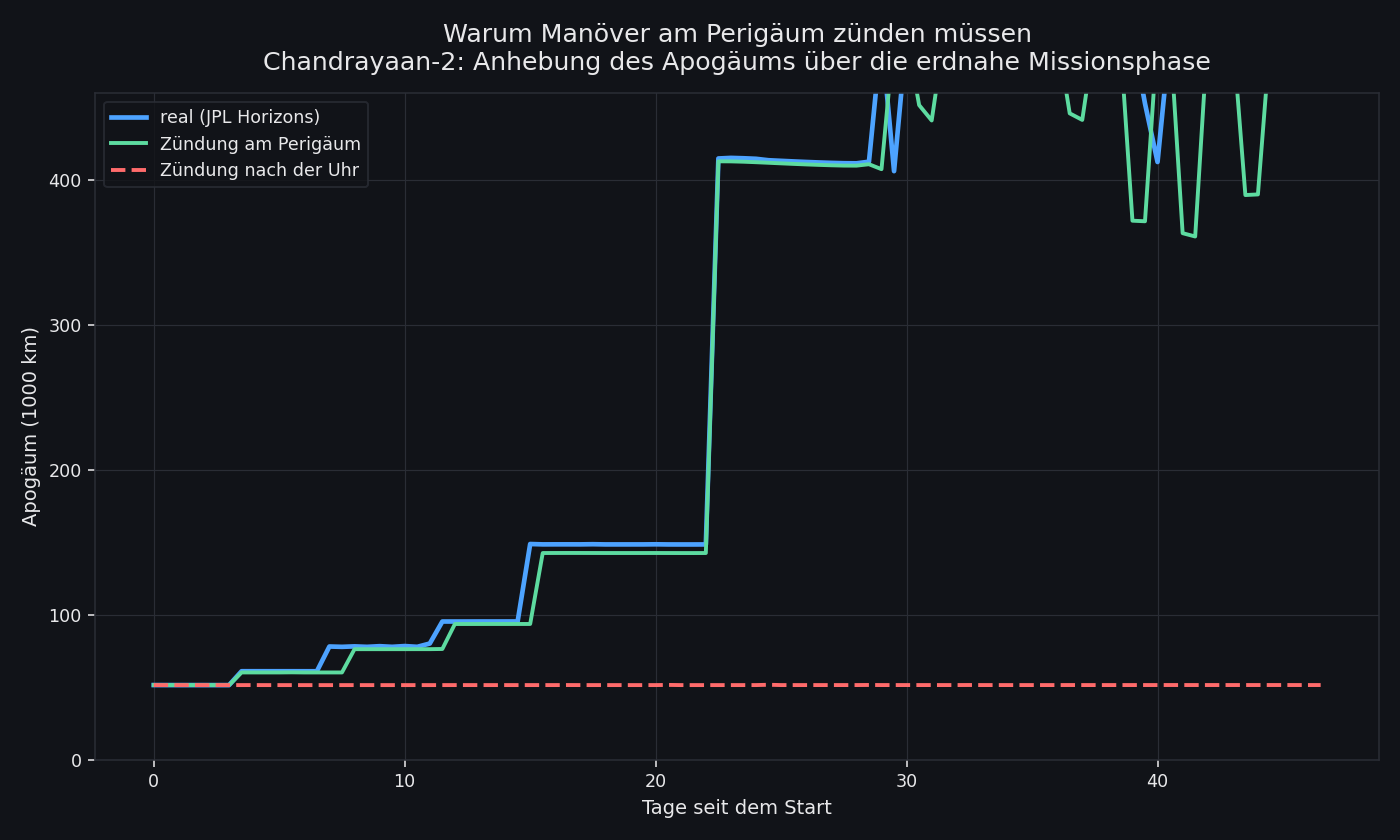
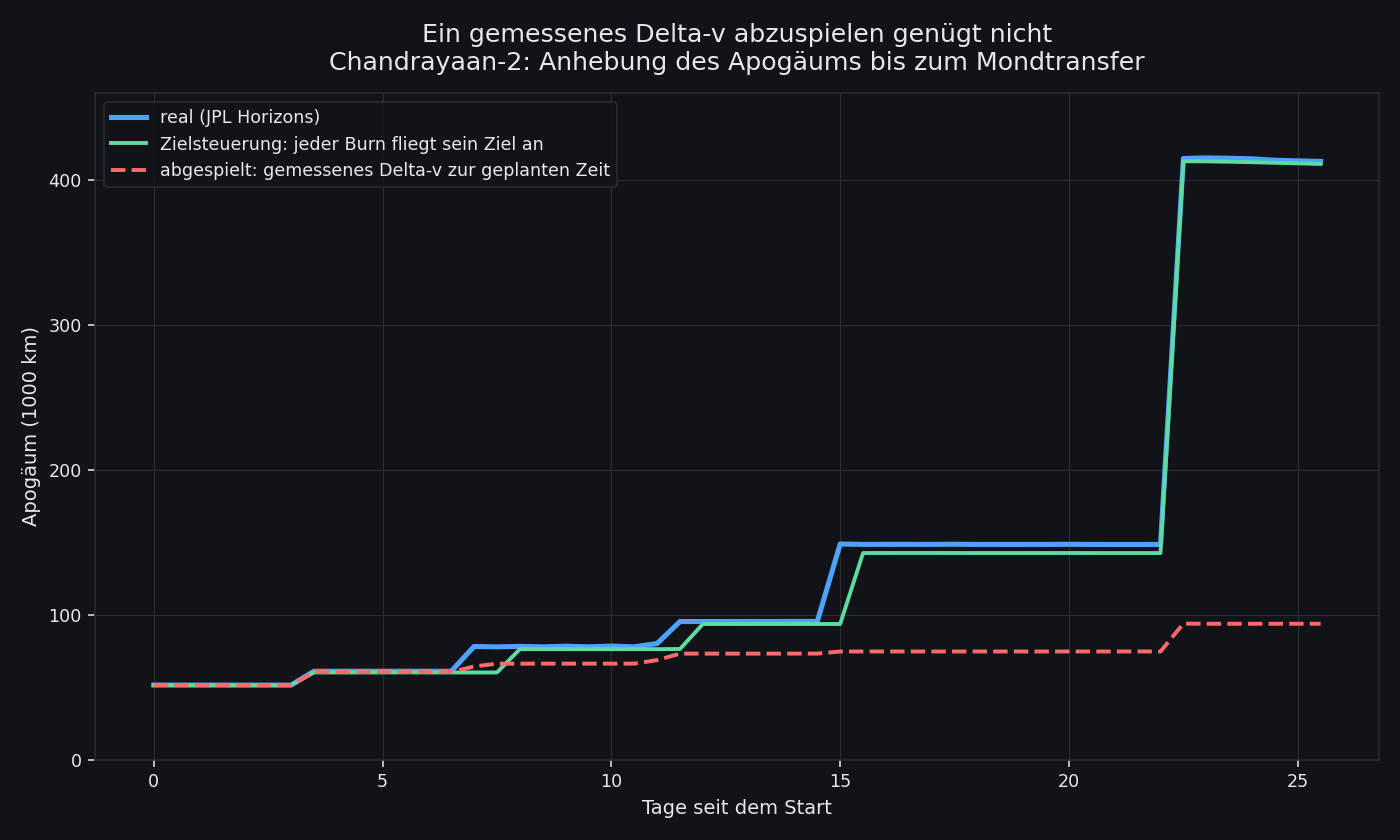
Regenerate the figures, and rework the one targeting made obsolete
All five stills are regenerated from the current scenario. Four were
unchanged in substance; the fifth had become misleading.

It compared firing at perigee against firing by the clock, but with targeting
in place both branches now differ in two ways at once, and the comparison no
longer isolated anything. Worse, it ran past the lunar capture, where a
*geocentric* apoapsis says nothing about a spacecraft orbiting the Moon -- the
tail was pure noise.

It now compares what actually matters: replaying the Δv measured on the flown
trajectory against letting each burn name a target and solve for its own. The
replay stalls at 95,000 km; targeting tracks the real climb through the
trans-lunar injection. The plot ends before the capture, where the quantity
stops meaning anything, and before the replay run's orbit collapses entirely.

Changed region(s): [[0.1536, 0.031, 0.9521, 0.8357], [0.1229, 0.1548, 0.43, 0.2167], [0.8293, 0.7429, 0.86, 0.7738]]

diff --git a/make_figures.py b/make_figures.py
@@ -197,29 +197,50 @@ def figure_burn_detection(outdir):
 
 
 def figure_trigger_effect(outdir):
-    """Warum die Zündlogik nötig ist: Apogäum mit und ohne Perigäums-Zündung."""
-    from models.trigger import PeriapsisTrigger
+    """Zielsteuerung gegen abgespieltes Delta-v.
+
+    Die Abbildung endet mit dem Mondeinfang. Danach umkreist die Sonde den
+    Mond, und ein *geozentrisches* Apogäum sagt über ihre Bahn nichts mehr aus
+    -- es zu zeichnen ergäbe nur Zacken.
+    """
+    import json
+
+    from data.scenario import SCENARIO_DIR
 
     truth = load_cache("chandrayaan2_truth")["records"]
     epoch = truth[0]["jd"]
-    days = np.array([record["jd"] - epoch for record in truth])
 
-    def apoapsis_track(use_trigger):
+    # Bis kurz nach dem Mondtransfer. Danach zerfaellt im Replay-Lauf die
+    # Bahn vollends, was nur noch Zacken erzeugt statt etwas zu zeigen.
+    until_day = 25.5
+    records = [r for r in truth if (r["jd"] - epoch) <= until_day]
+    days = np.array([record["jd"] - epoch for record in records])
+
+    with open(os.path.join(SCENARIO_DIR, "chandrayaan2.json"), encoding="utf-8") as f:
+        raw_maneuvers = json.load(f)["maneuvers"]
+
+    def apoapsis_track(replay):
+        """Bahnverlauf, wahlweise zielgesteuert oder als Delta-v abgespielt."""
         scenario = load_named_scenario("chandrayaan2")
         probe = scenario.body("Chandrayaan-2")
         earth = scenario.body("Earth")
-        if not use_trigger:
-            # Auslöser durch die geplante Absolutzeit ersetzen
-            for maneuver in probe.list_maneuvers:
-                if maneuver.trigger is not None:
-                    maneuver.time_start = maneuver.trigger.after + 3600.0
-                    maneuver.trigger = None
-                    maneuver.activated_at = maneuver.time_start
+
+        if replay:
+            # Den früheren Stand nachstellen: das gemessene Delta-v zur
+            # geplanten Zeit, ohne Ziel und ohne Auslöser.
+            for maneuver, entry in zip(probe.list_maneuvers, raw_maneuvers):
+                if "measured_delta_v" not in entry or "planned_at" not in entry:
+                    continue
+                maneuver.target_apoapsis = None
+                maneuver.delta_v = entry["measured_delta_v"]
+                maneuver.time_start = entry["planned_at"]
+                maneuver.trigger = None
+                maneuver.activated_at = entry["planned_at"]
 
         integrator = RustAcceleratedIntegrator(use_rust=True)
         elapsed = 0.0
         track = []
-        for record in truth:
+        for record in records:
             target = (record["jd"] - epoch) * 86400.0
             while elapsed < target:
                 integrator.calculate_states_batch(scenario.bodies, 60.0, elapsed)
@@ -234,21 +255,22 @@ def figure_trigger_effect(outdir):
 
     actual = np.array([
         min(elements_from_state(r["location"], r["velocity"], GM_EARTH).apoapsis, 5.0e8)
-        for r in truth
+        for r in records
     ])
 
     figure, axes = new_figure()
     style_axes(axes,
-               "Warum Manöver am Perigäum zünden müssen\n"
-               "Chandrayaan-2: Anhebung des Apogäums über die erdnahe Missionsphase",
+               "Ein gemessenes Delta-v abzuspielen genügt nicht\n"
+               "Chandrayaan-2: Anhebung des Apogäums bis zum Mondtransfer",
                "Tage seit dem Start", "Apogäum (1000 km)")
 
-    axes.plot(days, actual / 1e6, color=REAL, linewidth=2.4,
+    axes.plot(days, actual / 1e6, color=REAL, linewidth=2.6,
               label="real (JPL Horizons)")
-    axes.plot(days, apoapsis_track(True) / 1e6, color=ACCENT, linewidth=2.0,
-              label="Zündung am Perigäum")
-    axes.plot(days, apoapsis_track(False) / 1e6, color=WARN, linewidth=2.0,
-              linestyle="--", label="Zündung nach der Uhr")
+    axes.plot(days, apoapsis_track(replay=False) / 1e6, color=ACCENT,
+              linewidth=2.0, label="Zielsteuerung: jeder Burn fliegt sein Ziel an")
+    axes.plot(days, apoapsis_track(replay=True) / 1e6, color=WARN,
+              linewidth=2.0, linestyle="--",
+              label="abgespielt: gemessenes Delta-v zur geplanten Zeit")
 
     axes.set_ylim(0, 460)
     legend = axes.legend(facecolor=BACKGROUND, edgecolor=GRID, fontsize=9)

diff --git a/README.md b/README.md
@@ -57,14 +57,19 @@ published 3 m/s**. Seven further spikes were discarded as bad ephemeris
 samples — their contributions cancel instead of changing the orbit, which is
 what tells an artefact from a burn.
 
-## Why manoeuvres fire at perigee
+## Why a measured Δv is not enough
 
-![Effect of the ignition logic](docs/figures/trigger_effect.png)
+![Targeting against replay](docs/figures/trigger_effect.png)
 
-A burn adds energy in proportion to the speed the craft already has, so the
-same Δv is worth far more at perigee. Fire by the clock and a slight drift
-means missing that point entirely — Chandrayaan-2's apogee then stalls at
-60,000 km (red) instead of climbing (green).
+Replaying the Δv that was measured on the flown trajectory leaves the apogee
+stalled at 95,000 km (red). Letting each burn name a target apoapsis and solve
+for its own Δv at ignition tracks the real climb all the way through the
+trans-lunar injection (green against blue).
+
+Two effects compound in the red curve. A burn adds energy in proportion to the
+speed the craft already has, so a Δv that misses perigee is worth much less;
+and a burn that falls short shortens the period, which walks the next perigee
+pass out of its window.
 
 ## The integrator
 
